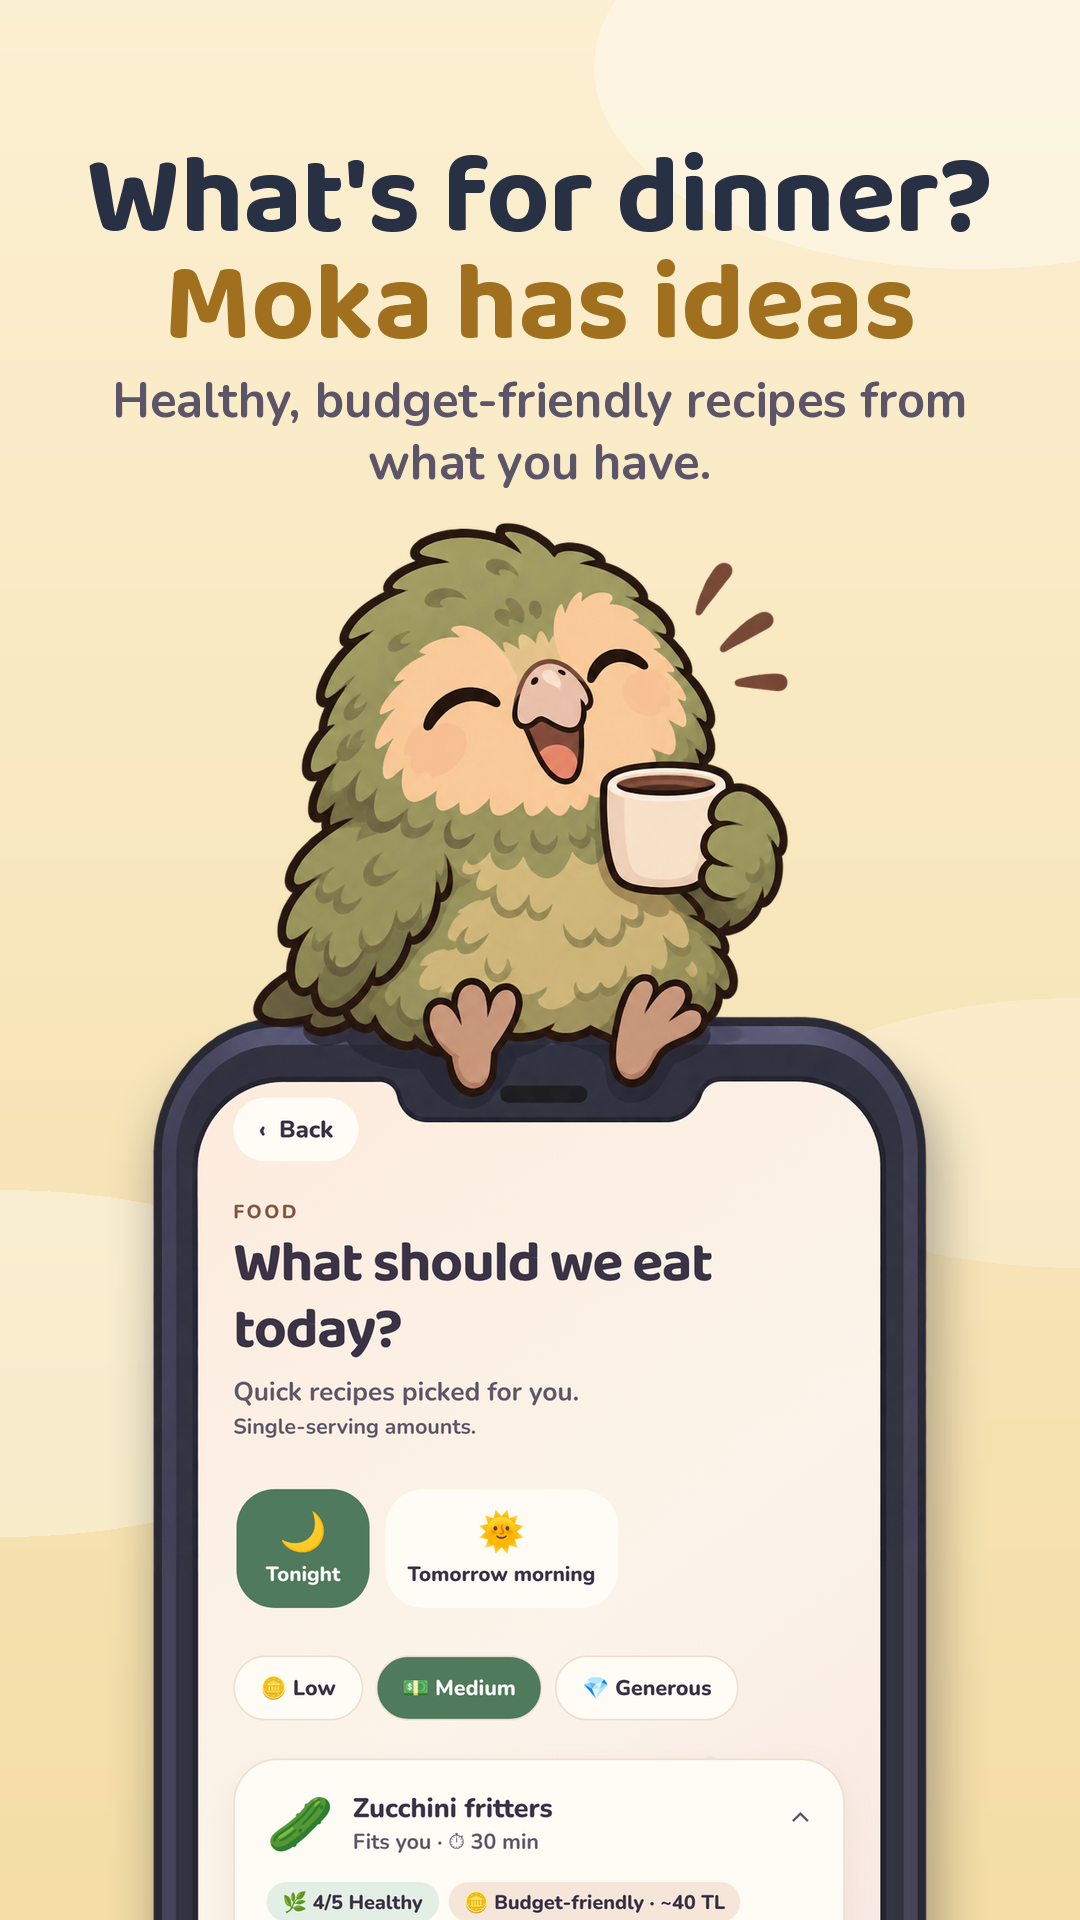
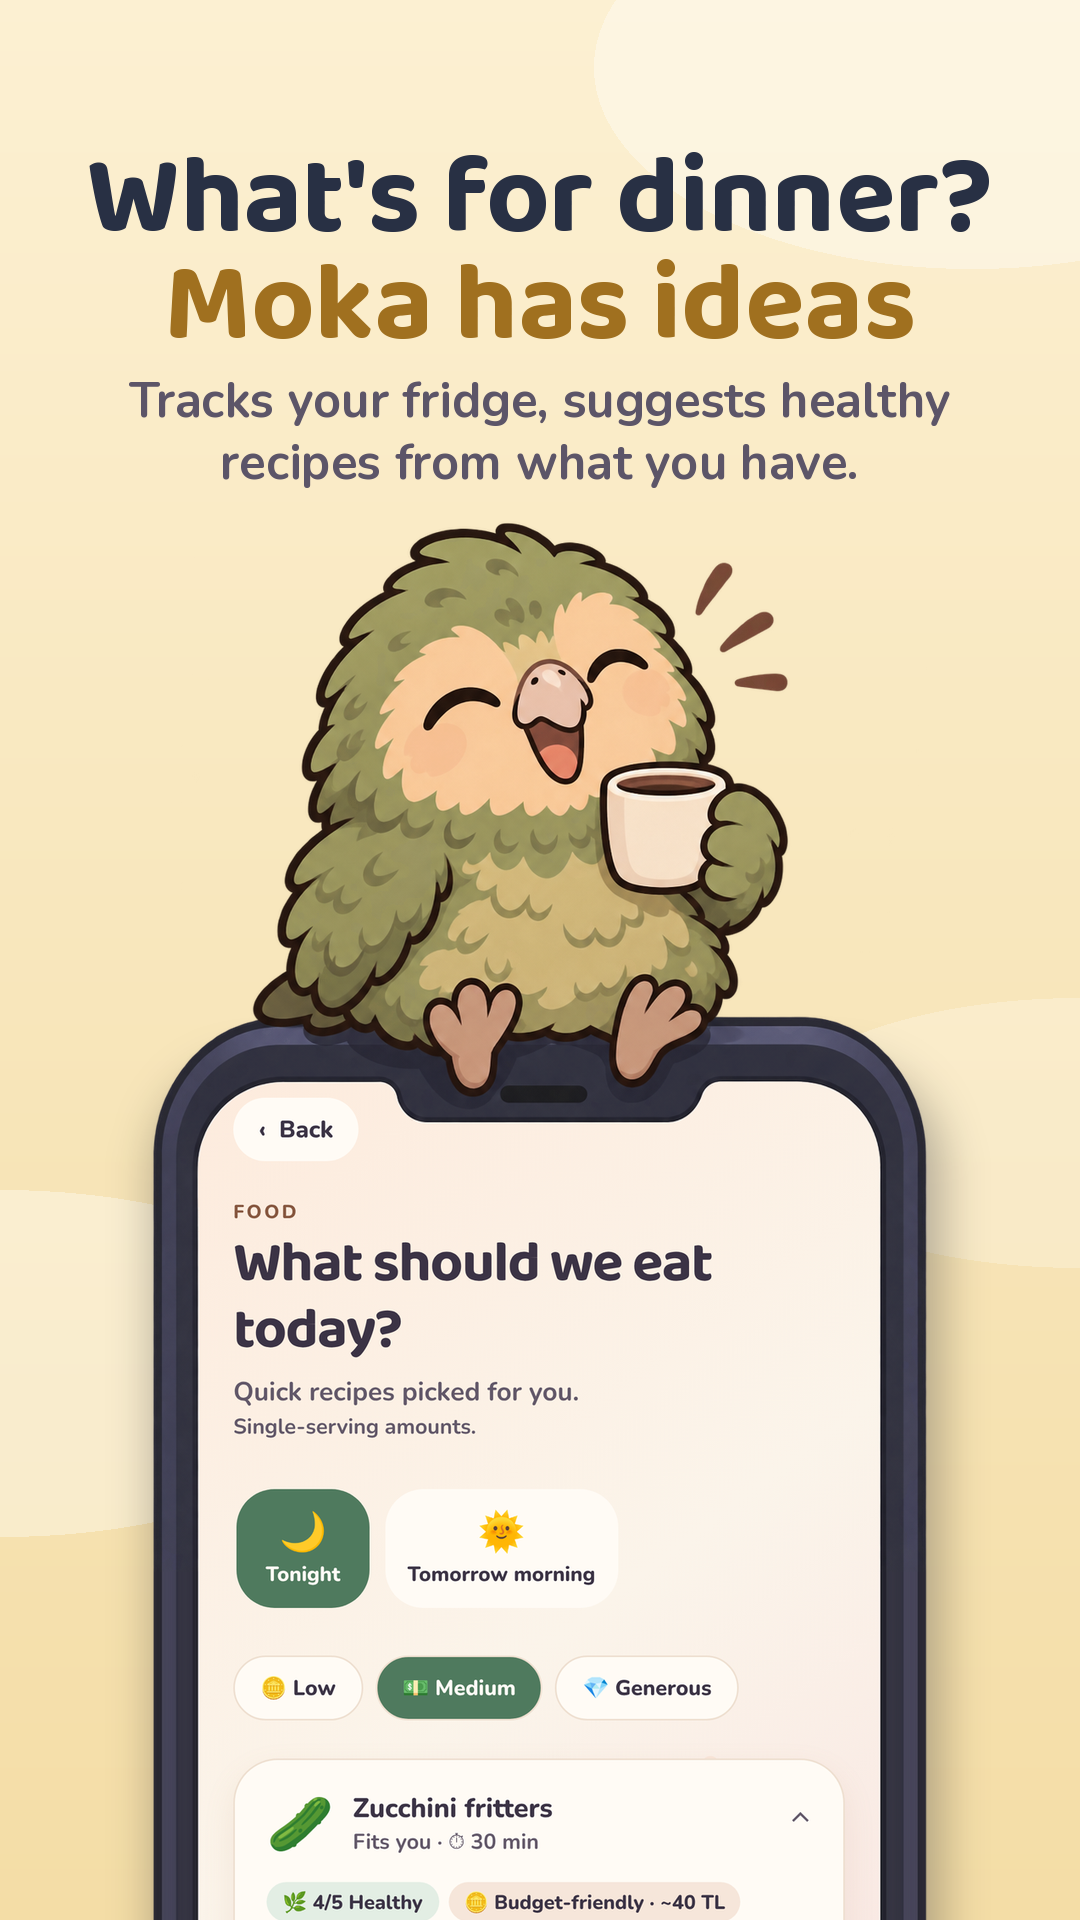
Mağaza: yemek görseli buzdolabı takibini anlatıyor
Claude-Session: https://claude.ai/code/session_01SaDd7bEhmATwQDt8e9cgXb

Changed region(s): [[0.0917, 0.1875, 0.8861, 0.25]]

diff --git a/scripts/store/make-store-art.py b/scripts/store/make-store-art.py
@@ -44,7 +44,7 @@ TEXT = {
         "01-moka": ("Moka seni her gün", "biraz daha tanıyor", "Bütün ev hayatında yanında."),
         "02-plan": ("Evine göre", "kişisel plan", "Birkaç soru, sana özel rutinler."),
         "03-bugun": ("Bugün sadece", "bir küçük adım", "Sıradaki işi Moka seçer, sen tamamla."),
-        "04-yemek": ("Bu akşam ne yesek?", "Moka bilir", "Dolabındakilerle sağlıklı, cebe dostu tarifler."),
+        "04-yemek": ("Bu akşam ne yesek?", "Moka bilir", "Buzdolabını takip eder, elindekilerle sağlıklı, cebe dostu tarif önerir."),
         "05-ev": ("Yaptığın her iş", "evini büyütür", "Moka evinde dolaşır, evin kat kat yükselir."),
         "06-bahce": ("Moka'nın bahçesi", "seninle çiçek açar", "Her iş bir saksıyı büyütür."),
         "07-sohbet": ("Sor, Moka", "halletsin", "İş ekle, not al, günü planla. Sohbet etmek yeter."),
@@ -54,7 +54,7 @@ TEXT = {
         "01-moka": ("Moka gets to know", "you every day", "Your whole home life, together."),
         "02-plan": ("A plan made", "for your home", "A few questions, routines just for you."),
         "03-bugun": ("Just one small", "step today", "Moka picks the next task. You tick it off."),
-        "04-yemek": ("What's for dinner?", "Moka has ideas", "Healthy, budget-friendly recipes from what you have."),
+        "04-yemek": ("What's for dinner?", "Moka has ideas", "Tracks your fridge, suggests healthy recipes from what you have."),
         "05-ev": ("Every task helps", "your home grow", "Moka roams your house. Your home rises floor by floor."),
         "06-bahce": ("Moka's garden", "blooms with you", "Every task helps a flower grow."),
         "07-sohbet": ("Just ask Moka", "and it's done", "Add tasks, take notes, plan your day by chatting."),

diff --git a/docs/magaza-metni-en.md b/docs/magaza-metni-en.md
@@ -33,7 +33,7 @@ Moka, a chubby coffee-loving kākāpō, learns about you and your home with a fe
 Your home screen shows the next task and the day at a glance. Tap "Done" and collect points. Overdue tasks are red, today's are warm-colored. Tired or short on time? Pick 10, 20 or 30 minute tasks.
 
 🍽 WHAT'S FOR DINNER?
-Practical, budget-friendly recipe ideas with a health score, based on what you already have. Missing ingredients go to your shopping list in one tap.
+Moka tracks what's in your fridge (In stock / Low / Out) and suggests practical, budget-friendly recipes with a health score from what you already have. Missing ingredients go to your shopping list in one tap.
 
 🏡 YOUR 3D HOME AND MOKA
 Draw your home with blocks and watch it come to life in 3D. Moka roams your house, and every task you do helps it rise floor by floor. Add a second floor with Premium, and spend points on furniture, floors, walls and facades.
